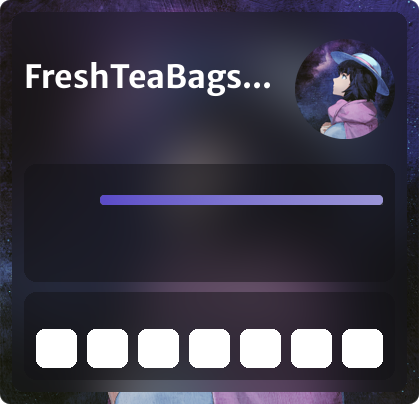
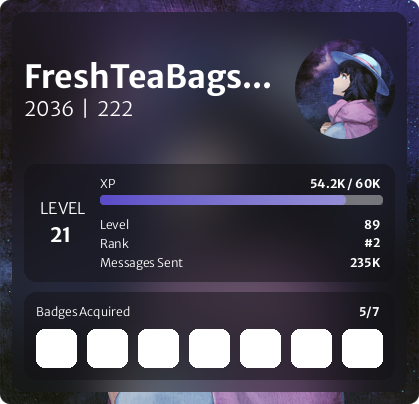
added texts

diff --git a/app/utilities/drawingPlayground/master.py b/app/utilities/drawingPlayground/master.py
@@ -86,7 +86,7 @@ def drawProfileCard(avatar_url, nickname, discriminator, labmem_number, level, r
     background = Image.alpha_composite(background, alpha_bg)
 
     # progress bar
-    progress_bar_xp = createProgressBar(100, constants.xp_bar_size, background.size, constants.xp_bar_offset)
+    progress_bar_xp = createProgressBar(87, constants.xp_bar_size, background.size, constants.xp_bar_offset)
     background = Image.alpha_composite(background, progress_bar_xp)
 
 
@@ -98,6 +98,25 @@ def drawProfileCard(avatar_url, nickname, discriminator, labmem_number, level, r
         nickname = nickname[0:12] + "..."
 
     drawText(nickname, 32, (24, 56), 'ExtraBold', draw)
+    drawText(str(discriminator)+"  |  "+str(labmem_number), 20, (24, 96), 'Regular', draw)
+
+    drawText("LEVEL", 16, (40, 198), 'Regular', draw)
+    drawText(str(level), 20, (50, 222), 'ExtraBold', draw)
+    drawText("XP", 12, (100, 176), 'Regular', draw)
+    drawText("Level", 12, (100, 217), 'Regular', draw)
+    drawText("Rank", 12, (100, 236), 'Regular', draw)
+    drawText("Messages Sent", 12, (100, 255), 'Regular', draw)
+    drawText("Badges Acquired", 12, (36, 304), 'Regular', draw)
+
+
+    # progress bar values (I don't use drawText, because it's simpler to handle anhors and aligns just this way)
+    font = ImageFont.truetype(constants.default_font, 12)
+    font.set_variation_by_name('ExtraBold')
+    draw.text((380, 178),"54.2K / 60K",font=font, align="right", anchor="rt")
+    draw.text((380, 219),"89",font=font, align="right", anchor="rt")
+    draw.text((380, 238),"#2",font=font, align="right", anchor="rt")
+    draw.text((380, 257),"235K",font=font, align="right", anchor="rt")
+    draw.text((380, 306),"5/7",font=font, align="right", anchor="rt")
 
 
     # merging full_background (the one with alpha around it) with background (the one with all card contents in it)
